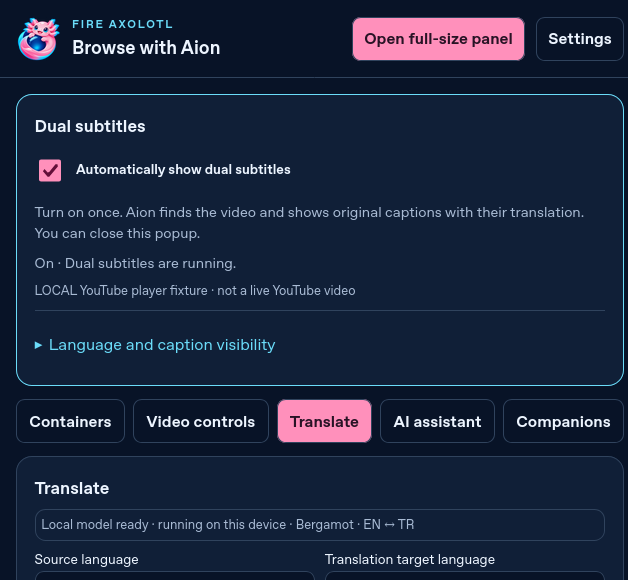
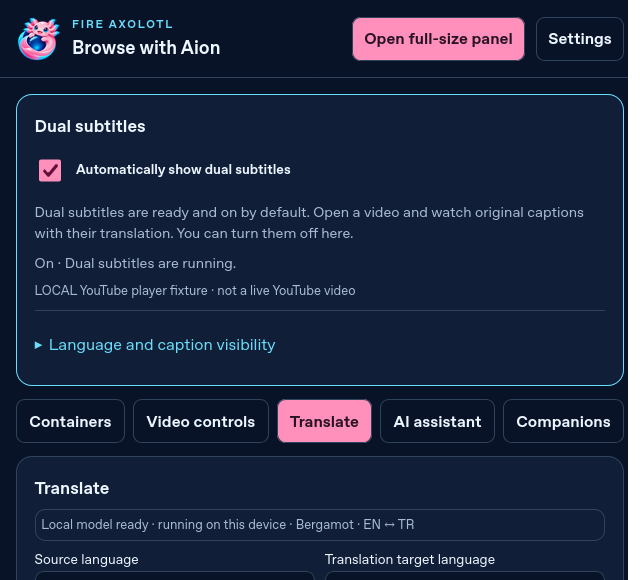
Start dual subtitles automatically on install and migrate the previous default

Changed region(s): [[0.0625, 0.3414, 0.9062, 0.4345]]

diff --git a/browser/extension/shared.js b/browser/extension/shared.js
@@ -7,7 +7,7 @@
     progress: true, animations: true, sounds: false, imageSearch: true, browserTheme: false, runner: true,
     targetLanguage: 'tr', endpoint: '', vocabulary: [], milestones: [], quality: 'auto', character: 'aion', characterActivity: 'idle',
     captionSize: 24, captionOpacity: 90, captionOffset: 0, captionFont: 'system', captionPosition: 'bottom', captionColor: '#ffffff', captionTranslationColor: '#85e7ff',
-    captionOriginal: true, captionTranslated: true, autoCaptions: false, aiSource: 'auto', aiTarget: 'tr', aiBackend: 'wasm',
+    captionOriginal: true, captionTranslated: true, autoCaptions: true, autoCaptionsDefaultVersion: 1, aiSource: 'auto', aiTarget: 'tr', aiBackend: 'wasm',
     moduleOrder: ['containers', 'video', 'translation', 'ai', 'characters'], disabledModules: []
   });
   const clamp = (v, lo, hi, fallback) => Number.isFinite(Number(v)) ? Math.min(hi, Math.max(lo, Number(v))) : fallback;
@@ -16,7 +16,11 @@
     const out = {...defaults, vocabulary: [], milestones: [], moduleOrder: [...defaults.moduleOrder], disabledModules: []};
     if (Array.isArray(input.moduleOrder)) out.moduleOrder = [...new Set([...input.moduleOrder.filter(key => defaults.moduleOrder.includes(key)), ...defaults.moduleOrder])];
     if (Array.isArray(input.disabledModules)) out.disabledModules = [...new Set(input.disabledModules.filter(key => defaults.moduleOrder.includes(key)))];
-    for (const key of ['progress', 'animations', 'sounds', 'imageSearch', 'browserTheme', 'runner', 'captionOriginal', 'captionTranslated', 'autoCaptions']) if (typeof input[key] === 'boolean') out[key] = input[key];
+    for (const key of ['progress', 'animations', 'sounds', 'imageSearch', 'browserTheme', 'runner', 'captionOriginal', 'captionTranslated']) if (typeof input[key] === 'boolean') out[key] = input[key];
+    // Adopt the requested ready-on-install default once, including 0.13.0's
+    // saved default false. Subsequent explicit choices carry this marker and
+    // survive normalization, updates and settings backup/restore.
+    if (input.autoCaptionsDefaultVersion === 1 && typeof input.autoCaptions === 'boolean') out.autoCaptions = input.autoCaptions;
     for (const [key, values] of Object.entries({language: ['', 'tr', 'en'], theme: ['system', 'light', 'dark', 'contrast'], font: ['system', 'sans', 'serif', 'dyslexic', 'opendyslexic'], quality: ['auto', 'best', 'hd720', 'hd1080', 'hd1440', 'hd2160']})) {
       if (values.includes(input[key])) out[key] = input[key];
     }

diff --git a/browser/extension/auto-captions.js b/browser/extension/auto-captions.js
@@ -1,7 +1,7 @@
 /* SPDX-License-Identifier: MPL-2.0 */
 // The background page owns this session. Closing the toolbar popup is harmless.
 globalThis.AionAutoCaptions = (() => {
-  let settings, signature, session, generation=0, settingsRevision=0, running=false, pending=false, lastProbe=0;
+  let settings, signature, session, latestReconcile, generation=0, settingsRevision=0, running=false, pending=false, lastProbe=0;
   let state={enabled:false,key:'autoCaptionOff',title:''};
   const cache=new Map();
   const status=()=>({...state});
@@ -23,15 +23,21 @@ globalThis.AionAutoCaptions = (() => {
     }
     lastProbe=0;
   }
-  async function reconcile() {
+  function reconcile() {
     const revision=++settingsRevision;
-    const next=await readSettings();
-    if(revision!==settingsRevision)return status();
-    const nextSignature=JSON.stringify([next.autoCaptions,next.disabledModules,next.aiSource,next.aiTarget,Aion.captionStyle(next),next.captionOriginal,next.captionTranslated,next.language]);
-    settings=next;
-    if(signature!==nextSignature){signature=nextSignature;reset();report(next.autoCaptions?'autoCaptionWaiting':'autoCaptionOff','');}
-    if(next.autoCaptions && next.disabledModules.some(x=>['ai','video','translation'].includes(x)))report('moduleDisabled','');
-    return status();
+    const work=(async()=>{
+      const next=await readSettings();
+      // A storage event can overtake the explicit toggle's refresh. All callers
+      // must await the newest refresh instead of returning the old checked state.
+      if(revision!==settingsRevision)return latestReconcile;
+      const nextSignature=JSON.stringify([next.autoCaptions,next.disabledModules,next.aiSource,next.aiTarget,Aion.captionStyle(next),next.captionOriginal,next.captionTranslated,next.language]);
+      settings=next;
+      if(signature!==nextSignature){signature=nextSignature;reset();report(next.autoCaptions?'autoCaptionWaiting':'autoCaptionOff','');}
+      if(next.autoCaptions && next.disabledModules.some(x=>['ai','video','translation'].includes(x)))report('moduleDisabled','');
+      return status();
+    })();
+    latestReconcile=work;
+    return work;
   }
   async function set(enabled) {
     if(typeof enabled!=='boolean')throw new Error('unknownAction');

diff --git a/tests/auto_captions_e2e.py b/tests/auto_captions_e2e.py
@@ -68,19 +68,19 @@ def close_popup():
 try:
     d.set_window_size(1280,1050);version=json.loads((ROOT/'browser/extension/manifest.json').read_text())['version'];addon=d.install_addon(str(ROOT/f'dist/fire-axolotl-extension-{version}-unsigned.xpi'),temporary=True)
     d.set_context('chrome');uuid=d.execute_script("return JSON.parse(Services.prefs.getStringPref('extensions.webextensions.uuids'))[arguments[0]]",addon);d.set_context('content');base=f'moz-extension://{uuid}/aion/';url=f'https://www.youtube.com:{server.server_port}/watch?v=AION-LOCAL-FIXTURE'
-    # Privileged inspection harness only; the user opens no AI controller.
-    d.get(base+'popup.html');ready();harness=d.current_window_handle
-    toolbar();popup('p.document.getElementById("auto-captions").click();')
-    w.until(lambda _:popup('return p.document.getElementById("auto-captions").checked&&!p.document.getElementById("auto-captions").disabled;'))
-    assert 'Video' in popup('return p.document.getElementById("auto-caption-status").textContent;') or 'video' in popup('return p.document.getElementById("auto-caption-status").textContent;')
-    close_popup();assert request({'type':'settings'})['autoCaptions'] is True
-    passed.append('One checkbox in the actual toolbar popup persists on with no video; no manual target, model-load or AI controller is needed')
-    d.switch_to.new_window('tab');page=d.current_window_handle;d.get(url);control('play').click()
+    # No popup, AI controller, checkbox or settings action before first playback.
+    d.get(url);page=d.current_window_handle;control('play').click()
     w.until(lambda _:bool(d.find_elements(By.CSS_SELECTOR,'[data-aion-captions]')))
     w.until(lambda _:any('kedi' in x.text.lower() for x in lines()));assert any('The cat' in x.text for x in lines())
     assert control('movie_player').find_element(By.CSS_SELECTOR,'.ytp-subtitles-button').get_attribute('aria-pressed')=='true'
     d.save_screenshot(str(out/'automatic-dual-captions.png'))
-    passed.append('Opening a video later automatically enables YouTube CC and cold-starts real bundled EN/TR inference, showing both lines after the popup has closed')
+    passed.append('Fresh installation automatically finds the video, enables CC and cold-starts real bundled EN/TR dual subtitles without opening any extension UI or checking any box')
+    # This page is only the privileged WebDriver inspection harness.
+    d.switch_to.new_window('tab');harness=d.current_window_handle;d.get(base+'popup.html');ready()
+    assert request({'type':'settings'})['autoCaptions'] is True
+    toolbar();assert popup('return p.document.getElementById("auto-captions").checked;');close_popup()
+    passed.append('The actual toolbar popup is already checked on its first opening; no manual target, model load or activation step is needed')
+    d.switch_to.window(page)
     control('door').click();w.until(lambda _:any('kapı' in x.text.lower() for x in lines()));assert any('Please close' in x.text for x in lines())
     control('navigate').click();w.until(lambda _:any('A new video.' in x.text for x in lines()));w.until(lambda _:any(x.text and 'A new video.' not in x.text for x in lines()))
     assert not any('kapı' in x.text.lower() for x in lines())
@@ -92,7 +92,8 @@ try:
     # Stop with the same single control, then verify native CC restoration.
     popup('p.document.getElementById("auto-captions").click();');w.until(lambda _:not popup('return p.document.getElementById("auto-captions").checked;'));close_popup()
     d.switch_to.window(page);w.until(lambda _:not d.find_elements(By.CSS_SELECTOR,'[data-aion-captions]'));assert d.execute_script('return getComputedStyle(document.querySelector(".ytp-caption-window-container")).opacity')=='1'
-    passed.append('Reopening the actual popup shows the persistent checked state; its checkbox is above the fold, the tab chooser is hidden, and switching off removes Aion and restores native captions')
+    d.switch_to.window(harness);toolbar();assert not popup('return p.document.getElementById("auto-captions").checked;');close_popup()
+    passed.append('Reopening the popup retains on state before stopping and off state afterward; its control is above the fold, no target chooser is shown, and switching off restores native captions')
     d.switch_to.window(harness);toolbar();popup('p.document.getElementById("auto-captions").click();');close_popup();d.switch_to.window(page)
     w.until(lambda _:bool(d.find_elements(By.CSS_SELECTOR,'[data-aion-captions]')));root().find_element(By.CSS_SELECTOR,'section > button').click();w.until(lambda _:not d.find_elements(By.CSS_SELECTOR,'[data-aion-captions]'))
     d.switch_to.window(harness);w.until(lambda _:request({'type':'settings'})['autoCaptions'] is False)

diff --git a/tests/caption_defaults_upgrade_e2e.py b/tests/caption_defaults_upgrade_e2e.py
@@ -1,0 +1,57 @@
+# SPDX-License-Identifier: MPL-2.0
+"""Real 0.13.0 -> current migration and persistent user-off preference."""
+import hashlib,json,os,urllib.request
+from pathlib import Path
+from selenium import webdriver
+from selenium.webdriver.common.by import By
+from selenium.webdriver.firefox.options import Options
+from selenium.webdriver.firefox.service import Service
+from selenium.webdriver.support.ui import WebDriverWait
+ROOT=Path(__file__).resolve().parents[1]
+old=ROOT/'work/previous-caption-preview-0.13.0.xpi'
[1 lines of base64/hex data omitted]
+local=ROOT/'dist/fire-axolotl-extension-0.13.0-native-newtab-unsigned.xpi'
+if not old.exists() or hashlib.sha256(old.read_bytes()).hexdigest()!=expected:
+    if local.exists() and hashlib.sha256(local.read_bytes()).hexdigest()==expected:old.write_bytes(local.read_bytes())
+    else:
+        url='https://github.com/kaansavukduran/fire-axolotl-extension/releases/download/v0.13.0-preview.1/fire-axolotl-extension-0.13.0-native-newtab-unsigned.xpi'
+        with urllib.request.urlopen(url,timeout=90) as source,old.with_suffix('.partial').open('wb') as target:
+            while block:=source.read(1024*1024):target.write(block)
+        assert hashlib.sha256(old.with_suffix('.partial').read_bytes()).hexdigest()==expected
+        old.with_suffix('.partial').replace(old)
+assert hashlib.sha256(old.read_bytes()).hexdigest()==expected
+version=json.loads((ROOT/'browser/extension/manifest.json').read_text())['version']
+new=ROOT/f'dist/fire-axolotl-extension-{version}-native-newtab-unsigned.xpi'
+out=ROOT/'work/caption-defaults-upgrade-test-artifacts';out.mkdir(parents=True,exist_ok=True)
+o=Options();o.binary_location=os.environ['AION_FIREFOX_BINARY'];o.add_argument('-headless');o.accept_insecure_certs=False;o.set_preference('remote.prefs.recommended',False)
+d=webdriver.Firefox(options=o,service=Service(os.environ['AION_GECKODRIVER'],service_args=['--allow-system-access'],log_output=str(out/'geckodriver.log')));w=WebDriverWait(d,45);passed=[]
+def request(m):return d.execute_async_script('const [m,done]=arguments;browser.runtime.sendMessage(m).then(done,e=>done({error:e.message}));',m)
+def load(path):
+    d.get('about:blank');identity=d.install_addon(str(path.resolve()),temporary=True)
+    d.set_context('chrome');uuid=d.execute_script("return JSON.parse(Services.prefs.getStringPref('extensions.webextensions.uuids'))[arguments[0]]",identity);d.set_context('content')
+    d.get(f'moz-extension://{uuid}/aion/popup.html');w.until(lambda _:d.find_element(By.TAG_NAME,'body').get_attribute('data-ready')=='true')
+    return identity
+try:
+    identity=load(old)
+    saved=request({'type':'save','patch':{'autoCaptions':False,'language':'tr','theme':'light','vocabulary':['Işık'],'aiSource':'auto','aiTarget':'tr','captionSize':32}})
+    assert saved['autoCaptions'] is False and 'autoCaptionsDefaultVersion' not in saved
+    assert load(new)==identity
+    settings=request({'type':'settings'});assert settings['autoCaptions'] is True and settings['autoCaptionsDefaultVersion']==1
+    assert settings['vocabulary']==['Işık'] and settings['theme']=='light' and settings['captionSize']==32
+    assert settings['aiSource']=='auto' and settings['aiTarget']=='tr'
+    passed.append('Real upgrade from 0.13.0 opens its former saved-off default automatically while preserving vocabulary, language, appearance and caption preferences')
+    stopped=request({'type':'autoCaptions','action':'set','enabled':False})
+    assert stopped.get('enabled') is False, {'response':stopped,'settings':request({'type':'settings'}),'state':request({'type':'autoCaptions'})}
+    assert load(new)==identity
+    settings=request({'type':'settings'});assert settings['autoCaptions'] is False and settings['autoCaptionsDefaultVersion']==1
+    w.until(lambda _:request({'type':'autoCaptions'})['enabled'] is False)
+    assert not d.find_element(By.ID,'auto-captions').is_selected()
+    passed.append('Explicitly turning captions off survives actual add-on reinstallation/background restart; the new default is not reapplied')
+    assert request({'type':'autoCaptions','action':'set','enabled':True})['enabled'] is True
+    assert load(new)==identity
+    assert request({'type':'settings'})['autoCaptions'] is True
+    assert request({'type':'settings'})['vocabulary']==['Işık']
+    passed.append('Re-enabling also survives real reinstallation without resetting unrelated data')
+    print('PASS',json.dumps(passed),flush=True)
+finally:
+    (out/'results.json').write_text(json.dumps({'passed':passed,'scope':'Stock Firefox temporary add-on upgrades; not an AMO signed install/update'},ensure_ascii=False,indent=2)+'\n');d.quit()

diff --git a/tests/youtube_e2e.py b/tests/youtube_e2e.py
@@ -11,6 +11,7 @@ import json,os,ssl,subprocess,tempfile
 from pathlib import Path
 from threading import Thread
 from http.server import BaseHTTPRequestHandler,ThreadingHTTPServer
+from gecko_controls import disable_automatic_captions
 from selenium import webdriver
 from selenium.webdriver.common.by import By
 from selenium.webdriver.support.ui import Select,WebDriverWait
@@ -56,6 +57,7 @@ def label(key):return d.find_element(By.CSS_SELECTOR,'[data-setting="'+key+'"]')
 try:
     d.set_window_size(1280,1050);version=json.loads((ROOT/'browser/extension/manifest.json').read_text())['version'];addon=d.install_addon(str(ROOT/f'dist/fire-axolotl-extension-{version}-unsigned.xpi'),temporary=True)
     d.set_context('chrome');uuid=d.execute_script("return JSON.parse(Services.prefs.getStringPref('extensions.webextensions.uuids'))[arguments[0]]",addon);d.set_context('content');base=f'moz-extension://{uuid}/aion/';url=f'https://www.youtube.com:{server.server_port}/watch?v=AION-LOCAL-FIXTURE'
+    disable_automatic_captions(d,base)
     d.get(url);page=d.current_window_handle;control('play').click();w.until(lambda _:d.execute_script('return document.querySelector("video").videoWidth')==320);assert d.execute_script('return document.querySelector("video").textTracks.length')==0
     d.switch_to.new_window('tab');controller=d.current_window_handle;d.get(base+'popup.html');ready();request({'type':'save','patch':{'language':'tr','aiSource':'auto','aiTarget':'tr'}})
     d.execute_async_script('browser.runtime.getBackgroundPage().then(bg=>{bg.__mediaEvents=[];const log=x=>{bg.__mediaEvents.push(x);if(bg.__mediaEvents.length>60)bg.__mediaEvents.shift()};const real=bg.AionMedia.command;bg.AionMedia.command=(id,c)=>{log({event:"command",id,action:c.action});return real(id,c).then(r=>{log({event:"done",id,action:c.action});return r;},e=>{log({event:"error",id,action:c.action,error:e.message});throw e;});};bg.browser.runtime.onConnect.addListener(p=>{if(p.name!=="aion-ai-video")return;log({event:"port",url:p.sender.url});p.onMessage.addListener(m=>log({event:"portMessage",...m}));p.onDisconnect.addListener(()=>log({event:"disconnect"}));});bg.browser.tabs.onRemoved.addListener(id=>log({event:"removed",id}));arguments[0](true);});')

diff --git a/tests/usability_e2e.py b/tests/usability_e2e.py
@@ -10,6 +10,7 @@ import base64,json,os,html
 from pathlib import Path
 from threading import Thread
 from http.server import BaseHTTPRequestHandler,ThreadingHTTPServer
+from gecko_controls import disable_automatic_captions
 from selenium import webdriver
 from selenium.webdriver.common.by import By
 from selenium.webdriver.common.action_chains import ActionChains
@@ -60,6 +61,7 @@ def menu(kind,label):
 try:
     d.set_window_size(1400,1000);version=json.loads((ROOT/'browser/extension/manifest.json').read_text())['version'];addon=d.install_addon(str(ROOT/f'dist/fire-axolotl-extension-{version}-unsigned.xpi'),temporary=True)
     d.set_context('chrome');uuid=d.execute_script("return JSON.parse(Services.prefs.getStringPref('extensions.webextensions.uuids'))[arguments[0]]",addon);d.set_context('content');base=f'moz-extension://{uuid}/aion/';url=f'http://127.0.0.1:{server.server_port}/'
+    disable_automatic_captions(d,base)
     d.get(url);source=d.current_window_handle;control('login').click();control('play').click();w.until(lambda _:d.execute_script('return document.querySelector("video").videoWidth')==320)
     d.switch_to.new_window('tab');controller=d.current_window_handle;d.get(base+'popup.html');ready();request({'type':'save','patch':{'language':'tr','aiSource':'en','aiTarget':'tr'}})
     source_id=d.execute_async_script('const [url,done]=arguments;browser.tabs.query({}).then(t=>done(t.find(x=>x.url===url).id));',url)

diff --git a/tests/caption_card_e2e.py b/tests/caption_card_e2e.py
@@ -5,6 +5,7 @@ import os
 from pathlib import Path
 from threading import Thread
 from http.server import BaseHTTPRequestHandler, ThreadingHTTPServer
+from gecko_controls import disable_automatic_captions
 from selenium import webdriver
 from selenium.webdriver.common.by import By
 from selenium.webdriver.common.keys import Keys
@@ -40,6 +41,7 @@ try:
     d.set_window_size(1200,1050)
     version=json.loads((ROOT/'browser/extension/manifest.json').read_text())['version'];addon=d.install_addon(str(ROOT/f'dist/fire-axolotl-extension-{version}-unsigned.xpi'),temporary=True)
     d.set_context('chrome');uuid=d.execute_script("return JSON.parse(Services.prefs.getStringPref('extensions.webextensions.uuids'))[arguments[0]]",addon);d.set_context('content');base=f'moz-extension://{uuid}/aion/'
+    disable_automatic_captions(d,base)
     url=f'http://127.0.0.1:{server.server_port}/';d.get(url);page=d.current_window_handle;d.find_element(By.ID,'play').click();w.until(lambda _:d.execute_script('return document.querySelector("video").videoWidth')==320)
     d.switch_to.new_window('tab');nested=d.current_window_handle;d.get(url+'iframe');d.switch_to.frame(d.find_element(By.TAG_NAME,'iframe'));d.find_element(By.ID,'play').click();w.until(lambda _:d.execute_script('return document.querySelector("video").videoWidth')==320);d.switch_to.default_content()
     d.switch_to.new_window('tab');controller=d.current_window_handle

diff --git a/tests/caption_learning_e2e.py b/tests/caption_learning_e2e.py
@@ -10,6 +10,7 @@ import time
 from pathlib import Path
 from threading import Thread
 from http.server import BaseHTTPRequestHandler, ThreadingHTTPServer
+from gecko_controls import disable_automatic_captions
 from selenium import webdriver
 from selenium.webdriver.common.by import By
 from selenium.webdriver.support.ui import Select, WebDriverWait
@@ -39,6 +40,7 @@ def request(message):return d.execute_async_script('const [m,done]=arguments;bro
 try:
     version=json.loads((ROOT/'browser/extension/manifest.json').read_text())['version'];addon=d.install_addon(str(ROOT/f'dist/fire-axolotl-extension-{version}-unsigned.xpi'),temporary=True)
     d.set_context('chrome');uuid=d.execute_script("return JSON.parse(Services.prefs.getStringPref('extensions.webextensions.uuids'))[arguments[0]]",addon);d.set_context('content');base=f'moz-extension://{uuid}/aion/'
+    disable_automatic_captions(d,base)
     url=f'http://127.0.0.1:{server.server_port}/';d.get(url);page=d.current_window_handle;d.find_element(By.ID,'start').click();w.until(lambda _:media('return v.readyState>=2 && Number.isFinite(v.duration);'));media('v.pause();v.currentTime=.3;')
     d.switch_to.new_window('tab');controller=d.current_window_handle;d.get(base+'ai.html');ready()
     target=d.execute_async_script('const [url,done]=arguments;browser.tabs.query({}).then(t=>done(t.find(x=>x.url===url).id));',url)

diff --git a/tests/bergamot_e2e.py b/tests/bergamot_e2e.py
@@ -10,6 +10,7 @@ import re
 from pathlib import Path
 from threading import Thread
 from http.server import BaseHTTPRequestHandler,ThreadingHTTPServer
+from gecko_controls import disable_automatic_captions
 from selenium import webdriver
 from selenium.webdriver.common.by import By
 from selenium.webdriver.support.ui import Select,WebDriverWait
@@ -40,6 +41,7 @@ try:
     version=json.loads((ROOT/'browser/extension/manifest.json').read_text())['version'];addon=d.install_addon(str(ROOT/f'dist/fire-axolotl-extension-{version}-unsigned.xpi'),temporary=True)
     assert addon=='fire-axolotl-extension@kaansavukduran.github.io'
     d.set_context('chrome');uuid=d.execute_script("return JSON.parse(Services.prefs.getStringPref('extensions.webextensions.uuids'))[arguments[0]]",addon);d.set_context('content');base=f'moz-extension://{uuid}/aion/'
+    disable_automatic_captions(d,base)
     url=f'http://127.0.0.1:{server.server_port}/';d.get(url);video_handle=d.current_window_handle;d.find_element(By.ID,'start').click();w.until(lambda _:d.execute_script('return document.querySelector("video").videoWidth')==320)
     d.switch_to.new_window('tab');page_handle=d.current_window_handle;d.get(url+'page')
     d.switch_to.new_window('tab');controller=d.current_window_handle

diff --git a/tests/gecko_e2e.py b/tests/gecko_e2e.py
@@ -16,7 +16,7 @@ from selenium.webdriver.firefox.options import Options
 from selenium.webdriver.firefox.service import Service
 from selenium.webdriver.support.ui import Select, WebDriverWait
 from selenium.webdriver.support import expected_conditions as EC
-from gecko_controls import choose_option
+from gecko_controls import choose_option, disable_automatic_captions
 
 ROOT = Path(__file__).resolve().parents[1]
 ARTIFACTS = ROOT / 'work/test-artifacts'
@@ -136,6 +136,7 @@ try:
     record('Integrated hash-pinned uBlock Origin engine blocks a real script request while the normal page still runs')
     record('One independently identified extension supplies both uBO and Aion; no second add-on installed')
     base = f'moz-extension://{ublock_uuid}/aion/'
+    disable_automatic_captions(driver,base)
     driver.get(base + 'settings.html')
     wait.until(lambda d: d.find_element(By.TAG_NAME, 'body').get_attribute('data-ready') == 'true')
     wait.until(lambda d: d.execute_script('return typeof UI !== "undefined" && !!UI.settings'))

diff --git a/tests/gecko_controls.py b/tests/gecko_controls.py
@@ -12,3 +12,16 @@ def choose_option(driver, element_id, value):
                 option.click()
             return
     raise AssertionError(f'No option {value} in {element_id}')
+
+
+def disable_automatic_captions(driver, base):
+    """Keep manual-media regressions independent of the default-on service.
+
+    Fresh-install automatic behavior has its own actual-toolbar/model test.
+    This setup exercises the same persisted off choice available to users.
+    """
+    from selenium.webdriver.support.ui import WebDriverWait
+    driver.get(base + 'popup.html')
+    WebDriverWait(driver, 45).until(lambda _: driver.find_element(By.TAG_NAME, 'body').get_attribute('data-ready') == 'true')
+    state = driver.execute_async_script('browser.runtime.sendMessage({type:"autoCaptions",action:"set",enabled:false}).then(arguments[0]);')
+    assert state['enabled'] is False

diff --git a/README.md b/README.md
@@ -2,13 +2,13 @@
 
 Normal Firefox'a kurulan **tek bir eklenti**. Ayrı bir tarayıcı veya ikinci bir reklam engelleme eklentisi gerekmez. Fire Axolotl donör olarak kullanılır; donör depo bu çalışma tarafından değiştirilmez.
 
-**Durum: 0.13.0 imzasız geliştirici önizlemesi. Kalıcı kurulum için henüz Mozilla imzası yok. Bütün Fire Axolotl isteklerinin tamamlandığı veya Firefox motorunun değiştiği iddia edilmez.** [Özellik karşılıkları ve sınırlar](docs/PARITY.md). [Gerçek Firefox sonuçları ve ekran görüntüleri](docs/VALIDATION.md).
+**Durum: 0.13.1 imzasız geliştirici önizlemesi. Kalıcı kurulum için henüz Mozilla imzası yok. Bütün Fire Axolotl isteklerinin tamamlandığı veya Firefox motorunun değiştiği iddia edilmez.** [Özellik karşılıkları ve sınırlar](docs/PARITY.md). [Gerçek Firefox sonuçları ve ekran görüntüleri](docs/VALIDATION.md).
 
 ## Hızlı başlangıç
 
 - **Metin çevirisi:** Aion araç çubuğu düğmesi → Çeviri → kaynak/hedef dil → metni yaz → **Cihazda çevir**. İngilizce ↔ Türkçe motoru pakettedir; ilk tıklamada çevrimdışı da başlar.
 - **Geniş ekran:** popup üstündeki **Tam sayfa paneli aç**. Site sekmesini seç; video, seçili metin ve konteyner işlemleri panel açıkken bu sekmede çalışır. Firefox popup sınırının dışındaki alan normal bir tarayıcı sekmesidir.
-- **YouTube / video:** Aion simgesine tıkla → **Videoları otomatik çift altyazıyla izle** kutusunu işaretle. Hepsi bu; popup’ı kapatabilirsin. İzlediğin video otomatik bulunur, YouTube CC açılır, orijinal ve çeviri birlikte gösterilir. Sonraki videolarda da çalışır. Dil ve satır görünürlüğü aynı kartın isteğe bağlı bölümündedir. Paket motoru İngilizce ↔ Türkçe; okunabilir altyazı gerekir, ses yazıya dökülmez.
+- **YouTube / video:** Eklentiyi kur, videoyu aç ve izle. Çift altyazı varsayılan açık; popup açmak, kutu işaretlemek, sekme veya model seçmek gerekmez. YouTube CC varsa otomatik açılır. İngilizce ↔ Türkçe motoru pakettedir ve cihazda çalışır. Aion popup’ından istersen kapatabilir, dil ve satır görünürlüğünü değiştirebilirsin. Okunabilir altyazı gerekir; ses yazıya dökülmez.
 - **Qwen:** Yapay zekâ → **Qwen 2.5’i aç** → **Modeli indir ve cihazda yükle** → **Genel soru**. Qwen ağırlıkları ayrıca indirilir (CPU yaklaşık 1,59 GB); hazır çeviriyle aynı şey değildir. Türkçe çeviri kalite sorunu sürer.
 - **Konteyner:** sayfa, bağlantı veya sekmeye sağ tık → **Aion · Konteynerde aç** → **İş / Kişisel / oluşturduğun ad**. Yeni sekme ayrı site oturumuyla açılır. **Yeni geçici konteyner** son sekmesi kapanınca temizlenir. Oluştur/yönet seçeneği açıklamalı paneli açar.
 
@@ -22,7 +22,7 @@ Normal Firefox'a kurulan **tek bir eklenti**. Ayrı bir tarayıcı veya ikinci b
 - Diğer diller için M2M100 418M (100 dil), genel metin için Qwen 2.5 1.5B ayrıca seçilebilir; bu iki modelin verisi açık indirme eylemiyle alınır veya yerelden içe aktarılır. [Kullanım ve deneysel kalite sınırları](docs/LOCAL_AI.md).
 - Yerel modelle ana belge veya açık web diyaloğu çevirisi: önce metin önizlemesi, ardından açık uygula eylemi ve özgün metne geri dönme. Her taramada en fazla 40 parça / 12.000 karakter; site değişiklikleri ezilmez.
 - Açık eylemle HTTPS çeviri hizmeti, seçili metin/altyazı alma, kelime defteri. Çeviri taslağı açılır pencere kapandıktan sonra korunur.
-- YouTube’un görünen CC metni için hizmet okuyucusu: iki satır, ayrı görünürlük anahtarları, geç sonuç temizliği ve video değişince durma. Her oynatıcı sürümünde veya altyazısız videoda çalışma garantisi değildir.
+- YouTube’un görünen CC metni için hizmet okuyucusu: iki satır, ayrı görünürlük anahtarları, geç sonuç temizliği ve otomatik modda sonraki videoyu takip etme. Her oynatıcı sürümünde veya altyazısız videoda çalışma garantisi değildir.
 - Model yüklemeden okunabilir video veya yüklenmiş özgün VTT/SRT altyazısında önceki/sonraki satır, tekrar oynatma, satır döngüsü ve kelime/cümle kaydı. Kaynak seçimi, duraklatma, elle başka zamana atlayınca döngüden çıkma ve panel kapanınca temizleme.
 - Video üzerindeki **Bu satırdan öğren** kartı: duraklat, kelime/cümle seç, kaynak/hedef dil seç, yerelde çevir ve kelime defterine kaydet. Escape duraklatılmış bırakır; açık devam düğmesi oynatır. Erişilebilen iframe ve oynatıcı kapsayıcısı tam ekranında çalışır; native video tam ekranı yalnız altyazıyı gösterir.
 - **Kelime defteri:** arama, 50 kayıtlık sayfalar, tek metni silme ve son silmeyi geri alma; yalnız kelimeleri içeren JSON yedeğini önizleyip birleştirme. Çeviri kapalıyken veri yönetimi erişilebilir. Dolu defter veya 300 karakteri aşan metin artık kaydedilmiş gibi gösterilmez.
@@ -38,11 +38,11 @@ Normal Firefox'a kurulan **tek bir eklenti**. Ayrı bir tarayıcı veya ikinci b
 
 İki alternatif paket vardır; **yalnızca birini** kur:
 
-- `fire-axolotl-extension-0.13.0-native-newtab-unsigned.xpi`: Firefox’un mevcut yeni sekmesini korur. Oyunu eklenti düğmesinden açarsın.
-- `fire-axolotl-extension-0.13.0-unsigned.xpi`: yeni sekmeyi Aion araması ve oyunuyla değiştirir. Başka yeni sekme eklentisi varsa etkin sayfayı Firefox yönetir. Oyun gizlenebilir; bu pakette yeni sekme override’ı ayrı bir çalışma anı anahtarıyla kaldırılamaz.
+- `fire-axolotl-extension-0.13.1-native-newtab-unsigned.xpi`: Firefox’un mevcut yeni sekmesini korur. Oyunu eklenti düğmesinden açarsın.
+- `fire-axolotl-extension-0.13.1-unsigned.xpi`: yeni sekmeyi Aion araması ve oyunuyla değiştirir. Başka yeni sekme eklentisi varsa etkin sayfayı Firefox yönetir. Oyun gizlenebilir; bu pakette yeni sekme override’ı ayrı bir çalışma anı anahtarıyla kaldırılamaz.
 
-1. [Kurulum ZIP’ini](https://github.com/kaansavukduran/fire-axolotl-extension/releases/download/v0.13.0-preview.1/fire-axolotl-extension-0.13.0-firefox-preview.zip) indir ve bir klasöre çıkar. Bu ZIP mevcut Firefox yeni sekmesini koruyan XPI ve Türkçe/English kurulum metni içerir.
-2. Klasördeki `fire-axolotl-extension-0.13.0-native-newtab-unsigned.xpi` dosyasını kullan. Diğer XPI ve kaynak dosyaları [sürüm sayfasındadır](https://github.com/kaansavukduran/fire-axolotl-extension/releases/tag/v0.13.0-preview.1).
+1. [Kurulum ZIP’ini](https://github.com/kaansavukduran/fire-axolotl-extension/releases/download/v0.13.1-preview.1/fire-axolotl-extension-0.13.1-firefox-preview.zip) indir ve bir klasöre çıkar. Bu ZIP mevcut Firefox yeni sekmesini koruyan XPI ve Türkçe/English kurulum metni içerir.
+2. Klasördeki `fire-axolotl-extension-0.13.1-native-newtab-unsigned.xpi` dosyasını kullan. Diğer XPI ve kaynak dosyaları [sürüm sayfasındadır](https://github.com/kaansavukduran/fire-axolotl-extension/releases/tag/v0.13.1-preview.1).
 3. Masaüstü Firefox'ta adres çubuğuna `about:debugging#/runtime/this-firefox` yaz.
 4. **Geçici Eklenti Yükle / Load Temporary Add-on** düğmesine bas, bu XPI'yi seç.
 5. Firefox'un eklenti menüsünden **Fire Axolotl Extension** düğmesini aç. Ayarlar, Sekmeler, Engelleme ve Araçlar buradadır. Aion yeni sekmeli pakette yeni sekme açınca oyun görünür; diğer pakette popup içinden açılır.
